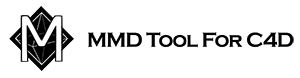
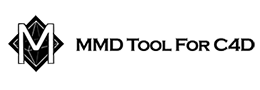
Fix R20 UI size

Changed region(s): [[0.2769, 0.4103, 0.9846, 0.6154], [0.0308, 0.0769, 0.2462, 0.9231]]

diff --git a/r20_sdk/plugins/cinema4dsdk/source/PluginRegister.cpp b/r20_sdk/plugins/cinema4dsdk/source/PluginRegister.cpp
@@ -49,7 +49,7 @@ public:
 
 		BaseContainer settings;
 		settings.SetBool(BITMAPBUTTON_BUTTON, false);
-		void* const customGUI = AddCustomGui(999, CUSTOMGUI_BITMAPBUTTON, ""_s, BFH_SCALE, SizePix(300), SizePix(78), settings);
+		void* const customGUI = AddCustomGui(999, CUSTOMGUI_BITMAPBUTTON, ""_s, BFH_SCALE, SizePix(260), SizePix(90), settings);//R20
 		BitmapButtonCustomGui* const bitmapButtonGUI = static_cast<BitmapButtonCustomGui*>(customGUI);
 		if (bitmapButtonGUI)
 		{
